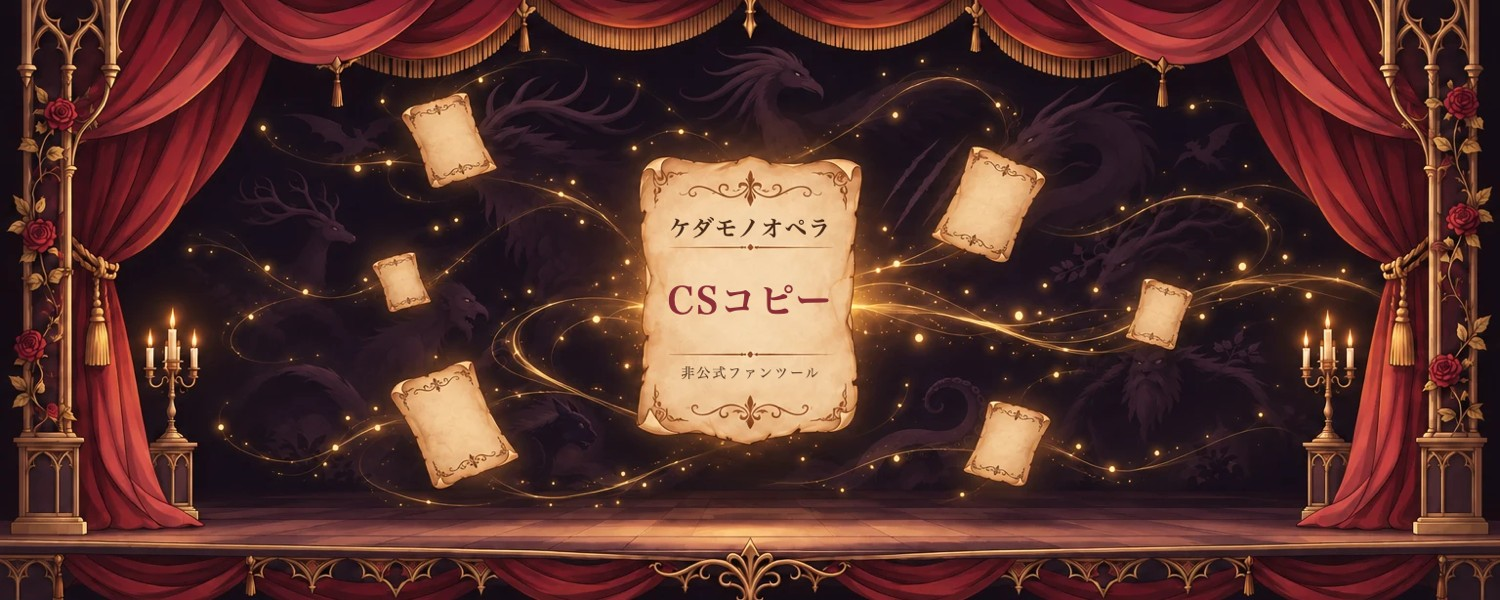
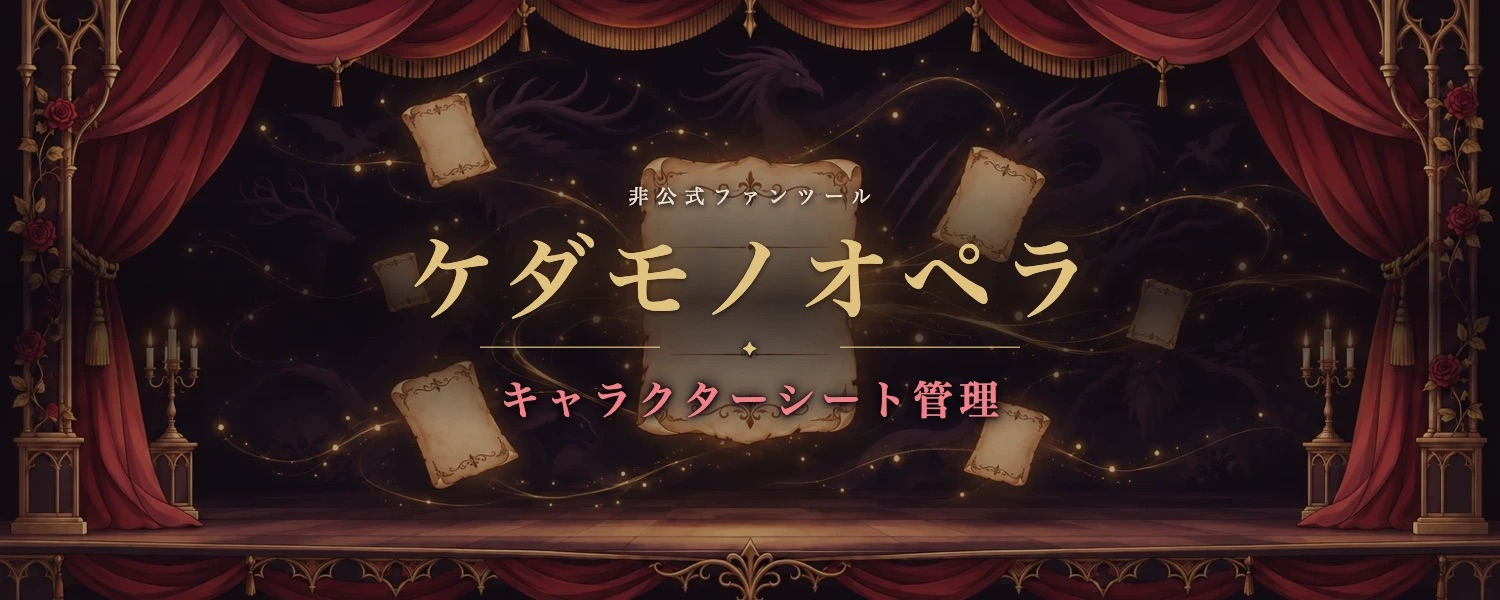
Rename ケダモノオペラCSコピー to ケダモノオペラキャラクターシート管理
Replace its illustration to match the new name, and break the long
title between the two words on narrow screens.

diff --git a/index.html b/index.html
@@ -412,6 +412,7 @@
 
   .card .body { padding: 20px 22px 22px; display: flex; flex-direction: column; flex: 1; }
   .card h4 { margin: 0 0 2px; font-family: var(--font-title); font-size: 1.25rem; font-weight: 600; line-height: 1.45; word-break: auto-phrase; -webkit-text-stroke: .5px currentColor; }
+  .card h4 .nb { display: inline-block; }
   .card .repo { margin: 0 0 12px; font-size: .8125rem; color: var(--muted); font-family: ui-monospace, SFMono-Regular, Menlo, monospace; word-break: break-all; }
   .card p.desc { margin: 0 0 16px; font-size: .9375rem; flex: 1; }
   .tags { display: flex; flex-wrap: wrap; gap: 6px; margin: 0 0 18px; padding: 0; list-style: none; }
@@ -621,12 +622,12 @@
 
         <article class="card">
           <div class="thumb">
-            <span class="ph">ケダモノオペラCSコピー</span>
-            <img data-view="image" src="images/works/kedamono-cs-copy.jpg" alt="赤い幕の劇場の舞台に「ケダモノオペラ CSコピー 非公式ファンツール」と書かれた羊皮紙が浮かび、まわりを小さな紙片が舞っている" width="1500" height="600" loading="lazy" onerror="thumbImgError(this)">
-            <img data-view="capture" style="object-position: 50% 0" src="images/works/kedamono-cs-copy-capture.jpg" alt="ケダモノオペラCSコピーの画面。「コピーしました」と「もう一度コピー」ボタンの下に、Discord に貼れる形のキャラクターシートが出ている" width="720" height="730" loading="lazy" onerror="thumbImgError(this)">
+            <span class="ph">ケダモノオペラキャラクターシート管理</span>
+            <img data-view="image" src="images/works/kedamono-cs-copy.jpg" alt="赤い幕の劇場の舞台に「非公式ファンツール ケダモノオペラ キャラクターシート管理」と書かれた羊皮紙が浮かび、まわりを小さな紙片が舞っている" width="1500" height="600" loading="lazy" onerror="thumbImgError(this)">
+            <img data-view="capture" style="object-position: 50% 0" src="images/works/kedamono-cs-copy-capture.jpg" alt="ケダモノオペラキャラクターシート管理の画面。「コピーしました」と「もう一度コピー」ボタンの下に、Discord に貼れる形のキャラクターシートが出ている" width="720" height="730" loading="lazy" onerror="thumbImgError(this)">
           </div>
           <div class="body">
-            <h4>ケダモノオペラCSコピー</h4>
+            <h4><span class="nb">ケダモノオペラ</span><span class="nb">キャラクターシート管理</span></h4>
             <p class="repo">kedamono-cs-copy</p>
             <p class="desc">『ケダモノオペラ』のキャラクターシートを Notion で管理し、ボタンひとつで Discord に貼れる形にコピーします。ファンが作った非公式ツールです。</p>
             <ul class="tags"><li>Notion</li><li>Discord</li></ul>
